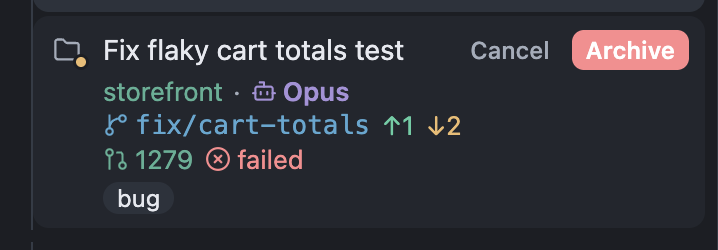
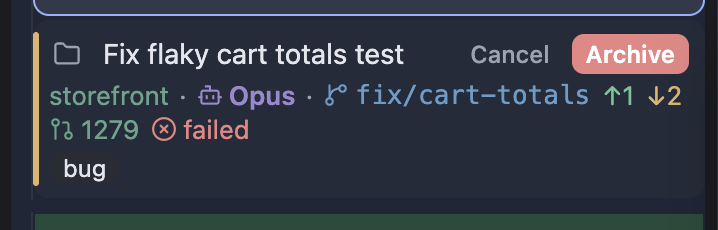
Retake the README screenshots and show group colors
Retakes every screenshot from the showcase with group colors, status
bars, the outlined open workspace, issues before PRs and rows that wrap
around their icon, and adds one of Edit group with its color swatches.
The README mentions group colors, the Current workspace button and the
link list in Edit details.

diff --git a/preview/showcase.ts b/preview/showcase.ts
@@ -59,7 +59,7 @@ export function loadShowcase() {
       { id: "checkout", name: "Checkout", parentId: "sprint" },
       { id: "payments", name: "Payments", parentId: "sprint", color: "green" },
       { id: "review", name: "👀 Ready for review", parentId: null, color: "yellow" },
-      { id: "experiments", name: "🧪 Experiments", parentId: null },
+      { id: "experiments", name: "🧪 Experiments", parentId: null, color: "purple" },
     ],
     workspaceOrder: [key("apple-pay"), key("cart-test"), key("invoices-v2", "build-box"), key("webhooks")],
     workspaces: {

diff --git a/README.md b/README.md
@@ -32,7 +32,10 @@ When you run a dozen agents at once, a flat list of workspaces stops working. **
 - **Nested groups, as deep as you like.** Drag workspaces into groups, drag groups into groups, and drag to reorder.
 - **Pick the group up front.** Paseo's **New workspace** screen gets a **Group** field beside Host and Isolation, so a new workspace lands where it belongs.
 - **Instant automatic grouping.** One click regroups everything by **Host**, **Project** or **PR status**, or shows one flat list with **None**, then back to your own groups.
+- **Color-code groups.** Pick red, orange, yellow, green, teal, blue, purple, pink or gray for a group, as a tint that works in light and dark themes, on its header alone or across everything in it.
 - **Collapse everything in one press**, with smooth sliding groups and **sticky headers** that stay pinned while you scroll.
+
+<img src="assets/screenshots/edit-group.png" width="360" alt="Edit group with the group's name, parent group and a row of color swatches">
 
 ### 👀 See everything at a glance
 
@@ -41,7 +44,7 @@ When you run a dozen agents at once, a flat list of workspaces stops working. **
 - **Rich workspace rows** show agent and model, project, branch with git status, labels in their Paseo colors, linked PRs and issues with CI results, subagents, run timer and last activity.
 - **Simple, Full or Custom views.** Pick exactly which fields appear.
 - **Hover for the whole story.** Rest on a row for half a second and a details panel lists every field in full, with clickable links.
-- **Live status.** Running, waiting and failed rows carry a status-colored bar down their left edge; working rows glow softly and their bar pulses, CI checks spin while they run, and the open workspace is always marked.
+- **Live status.** Running, waiting and failed rows carry a status-colored bar down their left edge; working rows glow softly and their bar pulses, CI checks spin while they run, and the open workspace is outlined. When it's scrolled out of view or inside a collapsed group, a small button at the bottom of the sidebar takes you back to it.
 
 ### 🔎 Find anything fast
 
@@ -59,7 +62,7 @@ When you run a dozen agents at once, a flat list of workspaces stops working. **
 - **Back and Forward** through the workspaces you've opened, like a browser: buttons, **⌘← / ⌘→**, your mouse's side buttons, or **⌘[ / ⌘]**, which a setting takes over from Paseo's Previous and Next workspace.
 - **Safe archiving.** Confirm with a red Archive button, or press **⌘⇧⌫** twice, and the row slides away.
 - **Links open where you work.** PRs and issues open as a Paseo browser tab in the workspace, or in your default browser if you prefer (a setting).
-- **Quick actions** in every row's ⋯ menu: edit notes, tags and links, rename, copy path or branch, pin.
+- **Quick actions** in every row's ⋯ menu: edit notes, tags and links (a list with a remove button for each, issues before PRs), rename, copy path or branch, pin.
 
 ### 🎉 Celebrate shipped work
 
